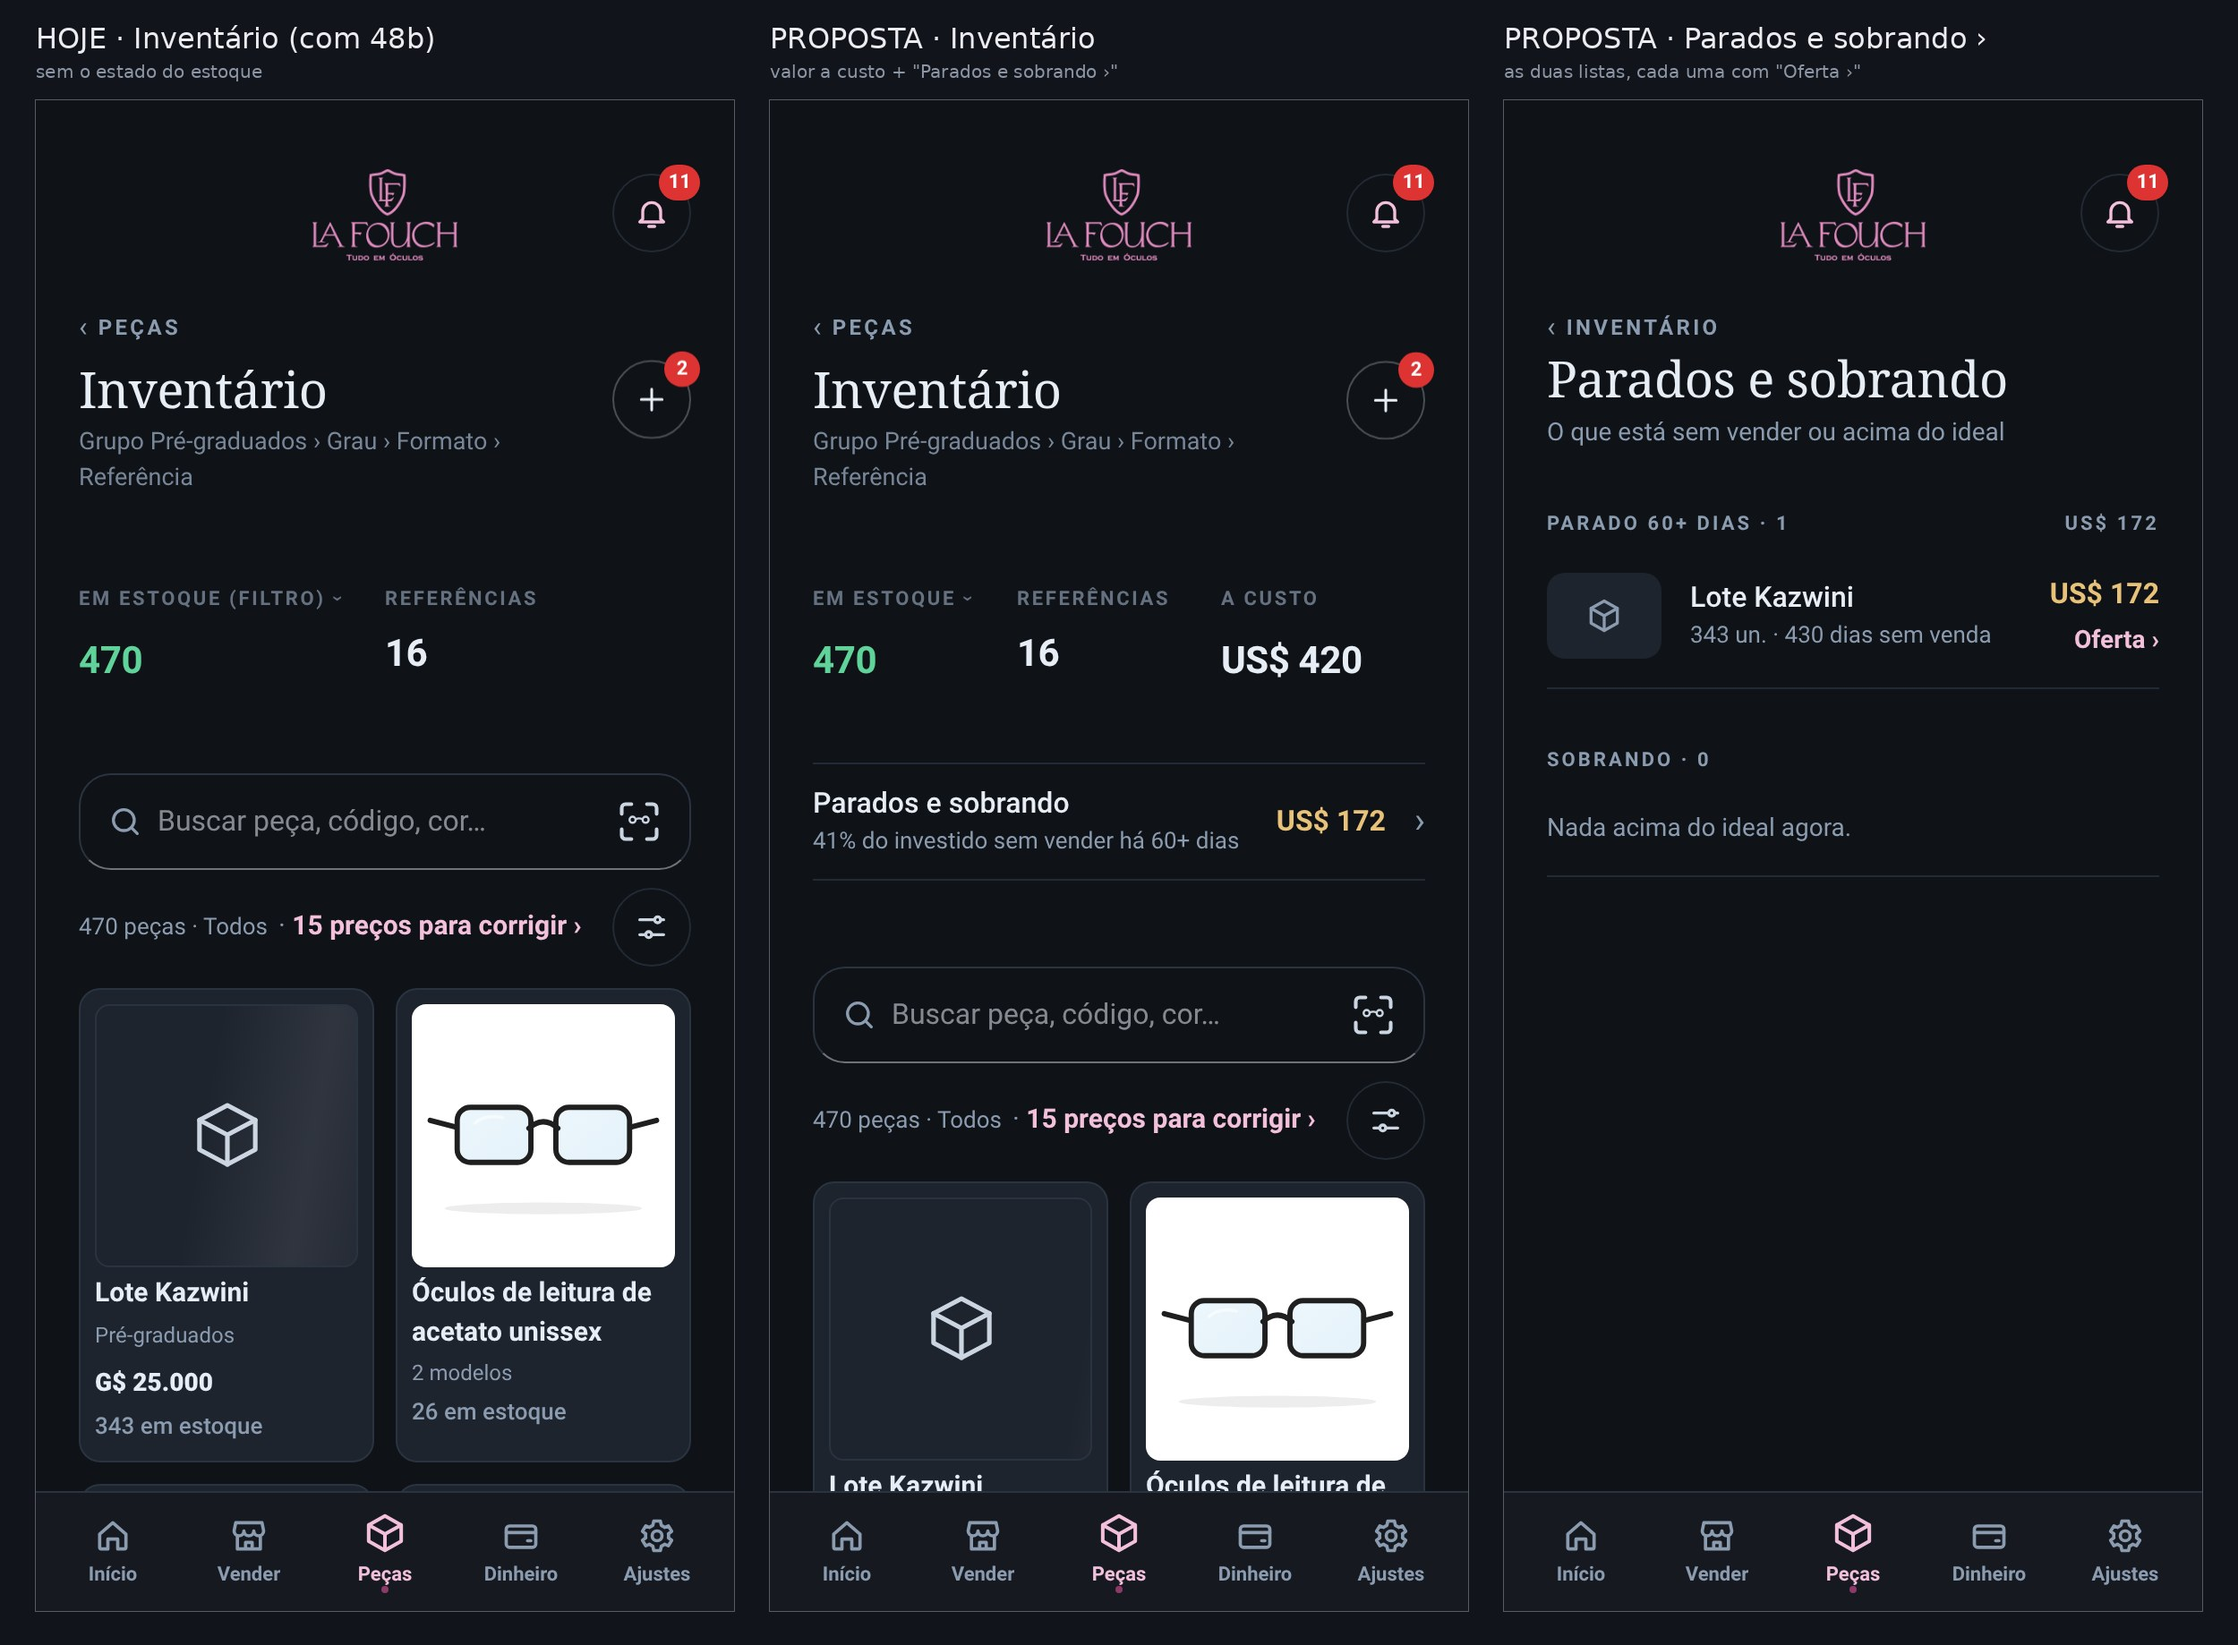
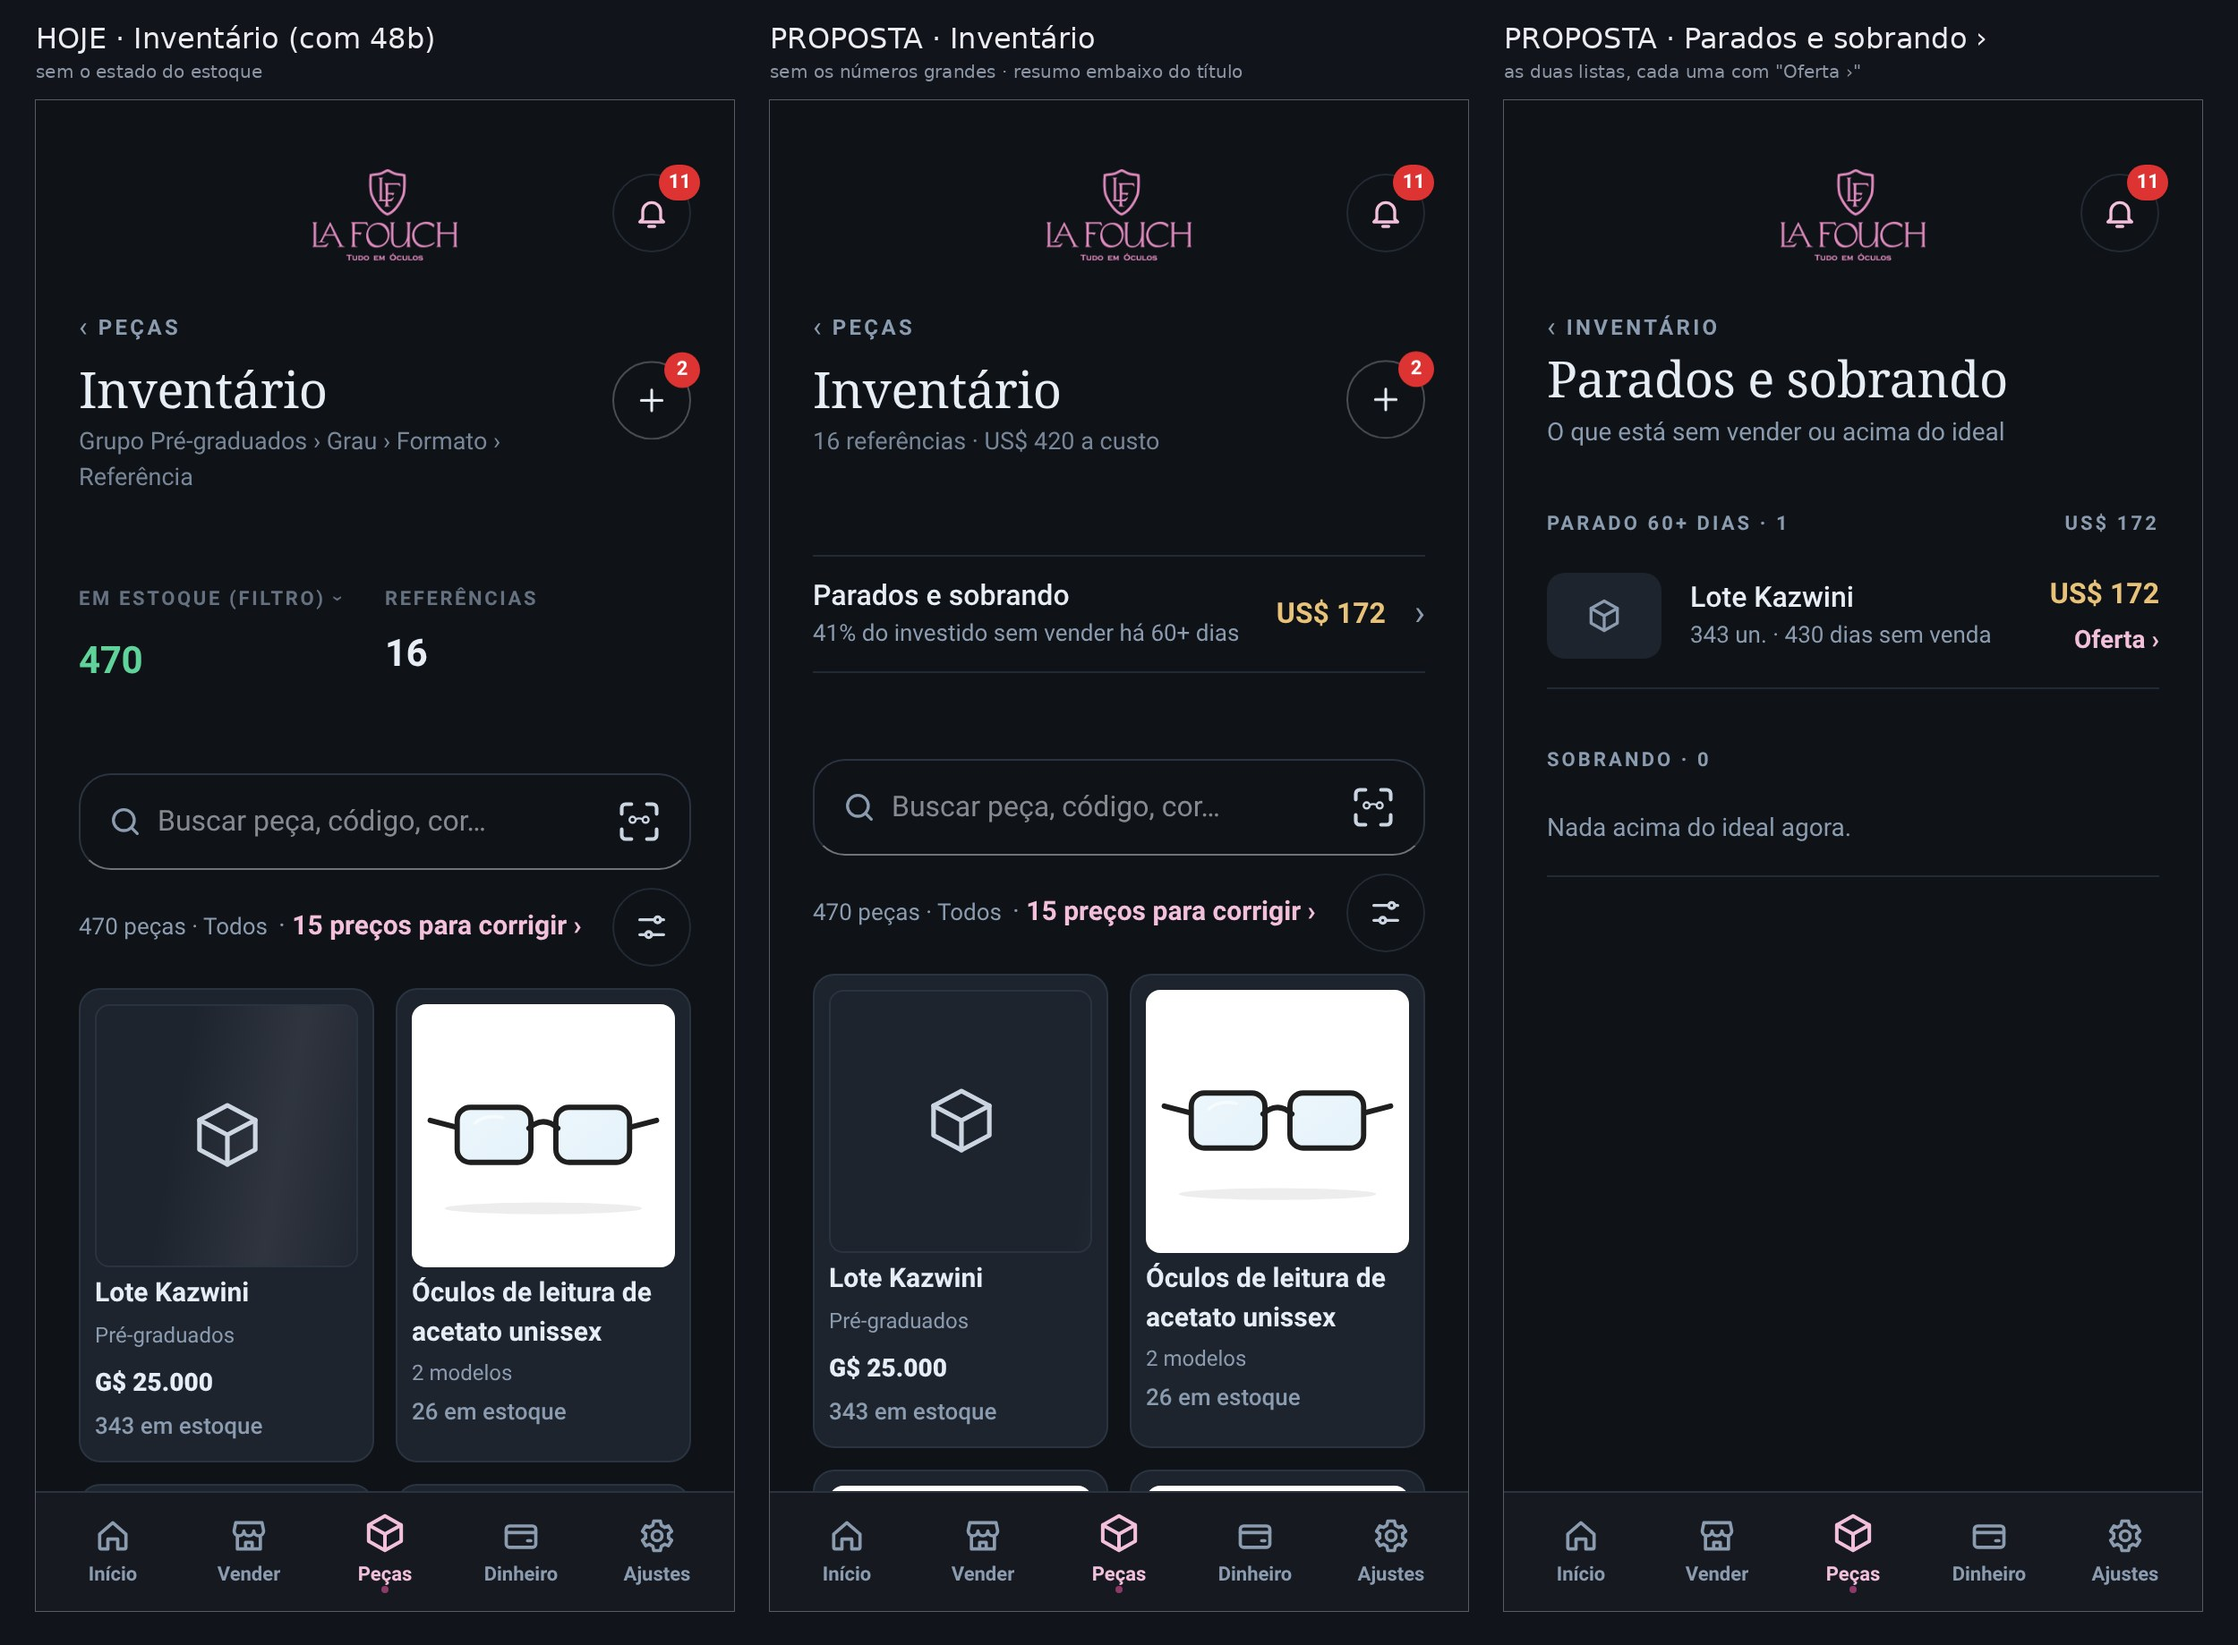
Esboço 52b v2: Inventário sem números grandes; resumo no lugar do caminho fixo
Claude-Session: https://claude.ai/code/session_01Vj5GPRt4UBskC3w8v52h7G

diff --git a/work/s435/giroprecos/esboco_52.py b/work/s435/giroprecos/esboco_52.py
@@ -24,9 +24,10 @@ def inicio(pw,prop):
 def inventario(pw,prop):
   b,pg,w=ap.abre(pw,'estoque',True,'celular',base=True);w(700);pg.add_style_tag(content='#nvBar{display:none!important}')
   pg.evaluate(INV48);w(300)
-  if prop: pg.evaluate(r"""()=>{const k=document.getElementById('kpisE');const ks=[...k.querySelectorAll('.kpi')];
-   const v=ks[0].cloneNode(true);v.querySelector('.lbl').textContent='A custo';v.querySelector('b').textContent='US$ 420';v.querySelector('b').style.color='';ks[ks.length-1].after(v);k.style.setProperty('grid-template-columns','repeat(3,minmax(0,1fr))','important');const l0=ks[0].querySelector('.lbl');if(l0)l0.childNodes.forEach(n=>{if(n.nodeType==3)n.textContent=n.textContent.replace(/\s*\(filtro\)/i,'')});
-   const ST='display:flex;align-items:center;gap:16px;width:100%;min-height:64px;background:none;border:0;border-top:1px solid var(--line2);border-bottom:1px solid var(--line2);color:var(--fg);font:inherit;text-align:left;padding:10px 0;margin:8px 0 16px';
+  if prop: pg.evaluate(r"""()=>{const k=document.getElementById('kpisE');k.style.setProperty('display','none','important');
+   // o "caminho" estático (Grupo Pré-graduados › Grau › Formato › Referência) vira o resumo da loja; o nº de peças fica só na linha da lista (segue o filtro)
+   const c=document.getElementById('crumb');c.textContent='16 referências · US$ 420 a custo';
+   const ST='display:flex;align-items:center;gap:16px;width:100%;min-height:64px;background:none;border:0;border-top:1px solid var(--line2);border-bottom:1px solid var(--line2);color:var(--fg);font:inherit;text-align:left;padding:10px 0;margin:16px 0';
    k.insertAdjacentHTML('afterend','<button type="button" class="pa52" style="'+ST+'"><span style="flex:1;min-width:0;display:flex;flex-direction:column;gap:2px"><b style="font-size:16px;font-weight:500">Parados e sobrando</b><small style="font-size:13px;color:var(--mute)">41% do investido sem vender há 60+ dias</small></span><b style="font-size:16px;font-weight:600;color:var(--warn,#e0b44c);font-variant-numeric:tabular-nums">US$ 172</b><i style="font-style:normal;font-size:20px;color:var(--mute)">›</i></button>')}""");w(400)
   confere(pg,'Inventário '+('proposta' if prop else 'hoje'));x=shot(pg,'inv%d'%prop);b.close();return x
 def parados(pw):
@@ -46,6 +47,6 @@ def quadro(arq,q):
 if __name__=='__main__':
  with sync_playwright() as pw:
   quadro('esboco_52a_inicio.jpg',[('HOJE · Início','com "Giro e preços"',inicio(pw,0)),('PROPOSTA · Início','sem "Giro e preços"',inicio(pw,1))])
-  quadro('esboco_52b_inventario.jpg',[('HOJE · Inventário (com 48b)','sem o estado do estoque',inventario(pw,0)),('PROPOSTA · Inventário','valor a custo + "Parados e sobrando ›"',inventario(pw,1)),('PROPOSTA · Parados e sobrando ›','as duas listas, cada uma com "Oferta ›"',parados(pw))])
+  quadro('esboco_52b_inventario.jpg',[('HOJE · Inventário (com 48b)','sem o estado do estoque',inventario(pw,0)),('PROPOSTA · Inventário','sem os números grandes · resumo embaixo do título',inventario(pw,1)),('PROPOSTA · Parados e sobrando ›','as duas listas, cada uma com "Oferta ›"',parados(pw))])
  json.dump(REL,open(O+'conferencia_52.json','w'),ensure_ascii=False,indent=1)
  for n,f in REL: print(n,len(f),f[:6])

diff --git a/docs/MEMORIA-PROJETO.md b/docs/MEMORIA-PROJETO.md
@@ -3467,3 +3467,4 @@ Testar TUDO, com muita calma, antes de dizer que está pronto ou de publicar: ca
 - 21/11/2026 — ✅ PUBLICADO app v601 (5.50.26) · 134 (2a): ficha do Inventário sem o cartão grande no celular (painel mantido no PC lado a lado); linhas de cor/grau como linha de lista (44 px, linha fina, quantidade à direita); rowLabel não escreve mais '· ' solto. 354/354 no simulador (uma rodada completa + a prova v474 ajustada rodada sozinha); nada em aparelho real. PARA O DONO: (1) a linha da cor/grau escolhida ficou sem destaque, como no esboço aprovado — com várias cores não dá para ver qual está escolhida; (2) a foto da ficha do Inventário ficou um pouco mais larga que a do Catálogo até o Catálogo perder o cartão (149s). Falta do 134: caixas do preço/No site/aviso, 134b, 134d.
 - 21/11 13:48 · DONO APROVOU: desfazer a família 'Giro e preços'. Compras é EXCLUSIVAMENTE para repor mercadoria (não recebe Sobrando/parado). Estado do estoque (No estoque, Parado 60+, Sobrando) vai para o INVENTÁRIO: valor a custo nos números do topo + linha 'Parados e sobrando ›' (lugar, valor em amarelo) com as duas listas e 'Oferta ›'; o Guardião avisa no sino quando uma peça vira parada. Retorno do estoque, Curva ABC, margem média, lucro por peça e contas cobertas → Resultados; Vitrine da semana → Marketing; 'Para decidir esta semana' (7 linhas repetidas de tabela) → sino numa linha; Calculadora, E se…? e Preço automático → ferramentas do Guardião; tabelas de atacado → Atacado. Início: Resultados · Site · Marketing · Clientes · Atacado. 'Vamos aos esboços' — em partes, começando pelo Inventário.
 - 21/11 14:00 · ESBOCO: esboço 52 parte 1 (desfazer Giro e preços) enviado: 52a Início sem 'Giro e preços' · 52b Inventário (base 48b) com 'A custo US$ 420' como 3º número (rótulo 'Em estoque' sem '(filtro)' para não quebrar) + linha 'Parados e sobrando · US$ 172 ›' · tela Parados e sobrando (Parado 60+ e Sobrando, cada peça com Oferta ›; vazio = 'Nada acima do ideal agora'). Conferência com a coleta do comparador único (COLETA/falhas): 0 falha nova; as que aparecem já existem hoje (texto cortado na linha Site do Início; '‹ Peças' encostando no título — padrão atual do app). Próximas partes: Resultados (Retorno, Curva ABC, margem) · Marketing (Vitrine) · sino (decisões) · Guardião (ferramentas) · Atacado (tabelas).
+- 21/11 14:05 · ESBOCO: investiguei a linha 'Grupo Pré-graduados › Grau › Formato › Referência' (src/11-estoque-lista.js:73, #crumb): é um texto FIXO que descreve como os dados são organizados (ou 'Referência › Variante C1–C6 › Cor'); não é caminho nem toca em nada. 52b refeito: saem os números grandes (Em estoque/Referências; o 470 repetia a linha da lista); o #crumb vira o resumo '16 referências · US$ 420 a custo'; o nº de peças fica só na linha da lista (segue o filtro); 'Parados e sobrando ›' fica. Comparador (coleta/falhas): 0 falha nova. Esperando o dono.

diff --git a/docs/FALTA-APROVAR-15-11.md b/docs/FALTA-APROVAR-15-11.md
@@ -958,3 +958,4 @@ Não são esquecimento (estavam na lista, parados de propósito ou por ordem do 
 - 21/11/2026 — ✅ PUBLICADO app v601 (5.50.26) · 134 (2a): ficha do Inventário sem o cartão grande no celular (painel mantido no PC lado a lado); linhas de cor/grau como linha de lista (44 px, linha fina, quantidade à direita); rowLabel não escreve mais '· ' solto. 354/354 no simulador (uma rodada completa + a prova v474 ajustada rodada sozinha); nada em aparelho real. PARA O DONO: (1) a linha da cor/grau escolhida ficou sem destaque, como no esboço aprovado — com várias cores não dá para ver qual está escolhida; (2) a foto da ficha do Inventário ficou um pouco mais larga que a do Catálogo até o Catálogo perder o cartão (149s). Falta do 134: caixas do preço/No site/aviso, 134b, 134d.
 - 21/11 13:48 · DONO APROVOU: desfazer a família 'Giro e preços'. Compras é EXCLUSIVAMENTE para repor mercadoria (não recebe Sobrando/parado). Estado do estoque (No estoque, Parado 60+, Sobrando) vai para o INVENTÁRIO: valor a custo nos números do topo + linha 'Parados e sobrando ›' (lugar, valor em amarelo) com as duas listas e 'Oferta ›'; o Guardião avisa no sino quando uma peça vira parada. Retorno do estoque, Curva ABC, margem média, lucro por peça e contas cobertas → Resultados; Vitrine da semana → Marketing; 'Para decidir esta semana' (7 linhas repetidas de tabela) → sino numa linha; Calculadora, E se…? e Preço automático → ferramentas do Guardião; tabelas de atacado → Atacado. Início: Resultados · Site · Marketing · Clientes · Atacado. 'Vamos aos esboços' — em partes, começando pelo Inventário.
 - 21/11 14:00 · ESBOCO: esboço 52 parte 1 (desfazer Giro e preços) enviado: 52a Início sem 'Giro e preços' · 52b Inventário (base 48b) com 'A custo US$ 420' como 3º número (rótulo 'Em estoque' sem '(filtro)' para não quebrar) + linha 'Parados e sobrando · US$ 172 ›' · tela Parados e sobrando (Parado 60+ e Sobrando, cada peça com Oferta ›; vazio = 'Nada acima do ideal agora'). Conferência com a coleta do comparador único (COLETA/falhas): 0 falha nova; as que aparecem já existem hoje (texto cortado na linha Site do Início; '‹ Peças' encostando no título — padrão atual do app). Próximas partes: Resultados (Retorno, Curva ABC, margem) · Marketing (Vitrine) · sino (decisões) · Guardião (ferramentas) · Atacado (tabelas).
+- 21/11 14:05 · ESBOCO: investiguei a linha 'Grupo Pré-graduados › Grau › Formato › Referência' (src/11-estoque-lista.js:73, #crumb): é um texto FIXO que descreve como os dados são organizados (ou 'Referência › Variante C1–C6 › Cor'); não é caminho nem toca em nada. 52b refeito: saem os números grandes (Em estoque/Referências; o 470 repetia a linha da lista); o #crumb vira o resumo '16 referências · US$ 420 a custo'; o nº de peças fica só na linha da lista (segue o filtro); 'Parados e sobrando ›' fica. Comparador (coleta/falhas): 0 falha nova. Esperando o dono.
